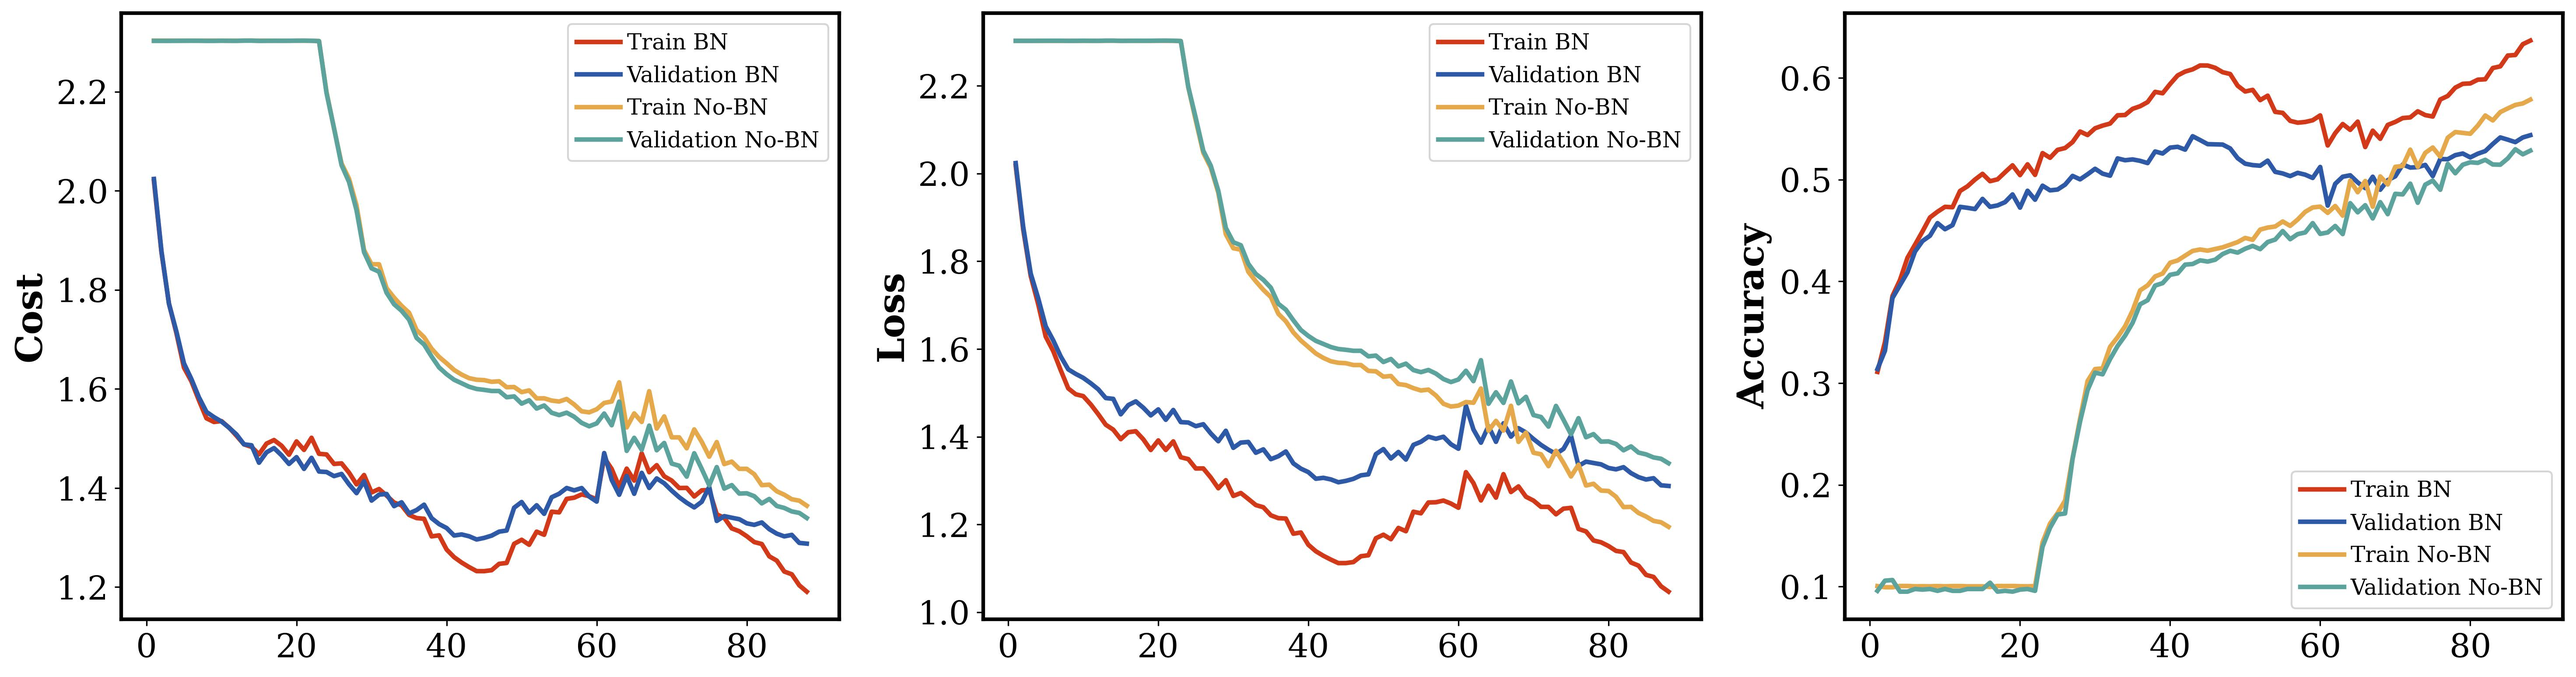
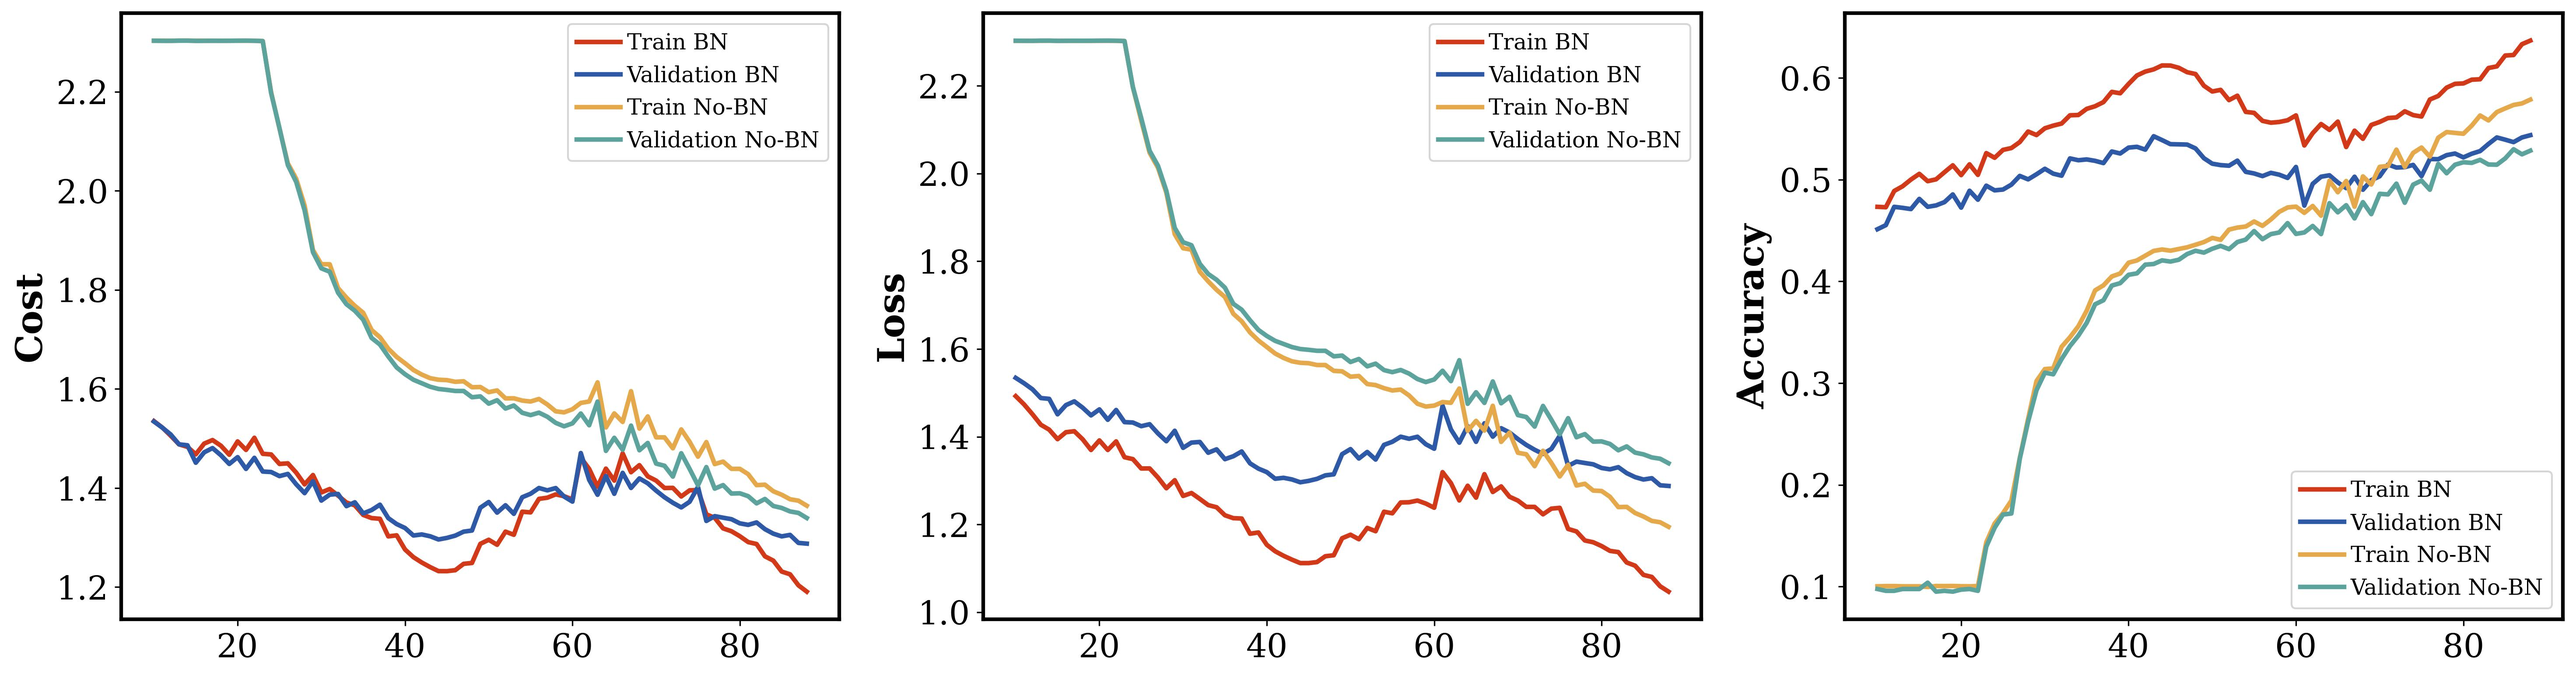
update

diff --git a/hw3/main.py b/hw3/main.py
@@ -965,7 +965,7 @@ def sensitivity_study():
     """
     # Std to use for initialisation
     sigs = [1e-1,1e-3,1e-4]
-    sigs = [1e-4]
+    # sigs = [1e-4]
     # Get from the finer search 
     opt_lambda = 0.0032461338701209826
 
@@ -1027,14 +1027,71 @@ def post_sensitivity():
     # Std to use for initialisation
     sigs = [1e-1,1e-3,1e-4]
     # Get from the finer search 
-    opt_lambda = 0.0032461338701209826
+    opt_lambda = 0.005
 
     icount = 0
-
+    sig = 1e-1
     plt_bn_train = {'lw':2.5,'c':colorplate.red,"label":'Train BN'}
     plt_bn_val   = {'lw':2.5,'c':colorplate.blue,"label":'Validation BN'}
     plt_nb_train = {'lw':2.5,'c':colorplate.yellow,"label":'Train No-BN'}
     plt_nb_val   = {'lw':2.5,'c':colorplate.cyan,"label":'Validation No-BN'}
+         # With BN 
+    #----------------------------------
+    model_config = dict(
+                    k = 9,
+                    if_batch_norm=True,
+                    init_='he',stdev=sig,
+                    batch_s=100,n_s=2250,n_epochs=20,
+                    lamda=opt_lambda)
+    
+    case_name_bn = name_case(**model_config)
+    
+    d_bn        = sio.loadmat(f'weights/HIST_{case_name_bn}.mat')
+
+    # No-BN 
+    #------------------------------------
+    model_config = dict(
+                    k = 9,
+                    if_batch_norm=False,
+                    init_='xavier',stdev=0.0,
+                    batch_s=100,
+                    n_s=2250,n_epochs=20,
+                    lamda=opt_lambda)
+    
+    case_name_nb = name_case(**model_config)
+    d_nb        = sio.loadmat(f'weights/HIST_{case_name_nb}.mat')
+        
+    # Plot 
+    #-------------------------------------
+    n_range = np.arange(len(d_nb['train_cost'].flatten()))
+    n_start = 10
+    n_interval = 1 
+    fig, axs = plt.subplots(1,3,figsize = (24,6))
+    axs[0].plot(n_range[n_start:-1:n_interval], d_bn['train_cost'].flatten()[n_start:-1:n_interval],**plt_bn_train)
+    axs[0].plot(n_range[n_start:-1:n_interval], d_bn['val_cost'].flatten()[n_start:-1:n_interval],**plt_bn_val)
+    axs[0].plot(n_range[n_start:-1:n_interval], d_nb['train_cost'].flatten()[n_start:-1:n_interval],**plt_nb_train)
+    axs[0].plot(n_range[n_start:-1:n_interval], d_nb['val_cost'].flatten()[n_start:-1:n_interval],**plt_nb_val)
+    axs[0].set_ylabel('Cost',font_dict)
+    axs[0].legend(loc='upper right')
+    axs[1].plot(n_range[n_start:-1:n_interval],d_bn['train_loss'].flatten()[n_start:-1:n_interval],**plt_bn_train)
+    axs[1].plot(n_range[n_start:-1:n_interval],d_bn['val_loss'].flatten()[n_start:-1:n_interval],**plt_bn_val)
+    axs[1].plot(n_range[n_start:-1:n_interval],d_nb['train_loss'].flatten()[n_start:-1:n_interval],**plt_nb_train)
+    axs[1].plot(n_range[n_start:-1:n_interval],d_nb['val_loss'].flatten()[n_start:-1:n_interval],**plt_nb_val)
+    axs[1].set_ylabel('Loss',font_dict)
+    axs[1].legend(loc="upper right")
+    axs[2].plot(n_range[n_start:-1:n_interval],d_bn['train_acc'].flatten()[n_start:-1:n_interval],**plt_bn_train)
+    axs[2].plot(n_range[n_start:-1:n_interval],d_bn['val_acc'].flatten()[n_start:-1:n_interval],**plt_bn_val)
+    axs[2].plot(n_range[n_start:-1:n_interval],d_nb['train_acc'].flatten()[n_start:-1:n_interval],**plt_nb_train)
+    axs[2].plot(n_range[n_start:-1:n_interval],d_nb['val_acc'].flatten()[n_start:-1:n_interval],**plt_nb_val)
+    axs[2].set_ylabel('Accuracy',font_dict)
+    axs[2].legend(loc="lower right")
+    
+    fig.savefig(f'Figs/Compare_9Layer.jpg',**fig_dict)
+
+
+
+    quit()
+    
     for il, sig in enumerate(sigs):
         print(f"At ({il+1}/{len(sigs)}): Plotting Case for Stdev = {sig:.3e}")
 
@@ -1068,7 +1125,7 @@ def post_sensitivity():
         # Plot 
         #-------------------------------------
         n_range = np.arange(len(d_nb['train_cost'].flatten()))
-        n_start = 1 
+        n_start = 10
         n_interval = 1 
 
         fig, axs = plt.subplots(1,3,figsize = (24,6))
@@ -1077,21 +1134,21 @@ def post_sensitivity():
         axs[0].plot(n_range[n_start:-1:n_interval], d_nb['train_cost'].flatten()[n_start:-1:n_interval],**plt_nb_train)
         axs[0].plot(n_range[n_start:-1:n_interval], d_nb['val_cost'].flatten()[n_start:-1:n_interval],**plt_nb_val)
         axs[0].set_ylabel('Cost',font_dict)
-        axs[0].legend('upper right')
+        axs[0].legend(loc='upper right')
 
         axs[1].plot(n_range[n_start:-1:n_interval],d_bn['train_loss'].flatten()[n_start:-1:n_interval],**plt_bn_train)
         axs[1].plot(n_range[n_start:-1:n_interval],d_bn['val_loss'].flatten()[n_start:-1:n_interval],**plt_bn_val)
         axs[1].plot(n_range[n_start:-1:n_interval],d_nb['train_loss'].flatten()[n_start:-1:n_interval],**plt_nb_train)
         axs[1].plot(n_range[n_start:-1:n_interval],d_nb['val_loss'].flatten()[n_start:-1:n_interval],**plt_nb_val)
         axs[1].set_ylabel('Loss',font_dict)
-        axs[1].legend("upper right")
+        axs[1].legend(loc="upper right")
 
         axs[2].plot(n_range[n_start:-1:n_interval],d_bn['train_acc'].flatten()[n_start:-1:n_interval],**plt_bn_train)
         axs[2].plot(n_range[n_start:-1:n_interval],d_bn['val_acc'].flatten()[n_start:-1:n_interval],**plt_bn_val)
         axs[2].plot(n_range[n_start:-1:n_interval],d_nb['train_acc'].flatten()[n_start:-1:n_interval],**plt_nb_train)
         axs[2].plot(n_range[n_start:-1:n_interval],d_nb['val_acc'].flatten()[n_start:-1:n_interval],**plt_nb_val)
         axs[2].set_ylabel('Accuracy',font_dict)
-        axs[2].legend("lower right")
+        axs[2].legend(loc="lower right")
         
         fig.savefig(f'Figs/Sensitivity_{sig:.3e}.jpg',**fig_dict)
     return 

diff --git a/hw3/sortCSV.py b/hw3/sortCSV.py
@@ -3,8 +3,8 @@ import pandas as pd
 
 df = pd.read_csv("Coarse_Search.csv")
 df = df.sort_values(by=['lambda'])
-df.to_csv('Sorted_Coarse.csv',sep='&',float_format='%.2e')
+df.to_csv('Sorted_Coarse.csv',sep='&',float_format='%.3e')
 
 df = pd.read_csv("Finer_Search.csv")
 df = df.sort_values(by=['lambda'])
-df.to_csv('Sorted_Finer.csv',sep='&',float_format='%.2e')
+df.to_csv('Sorted_Finer.csv',sep='&',float_format='%.3e')
